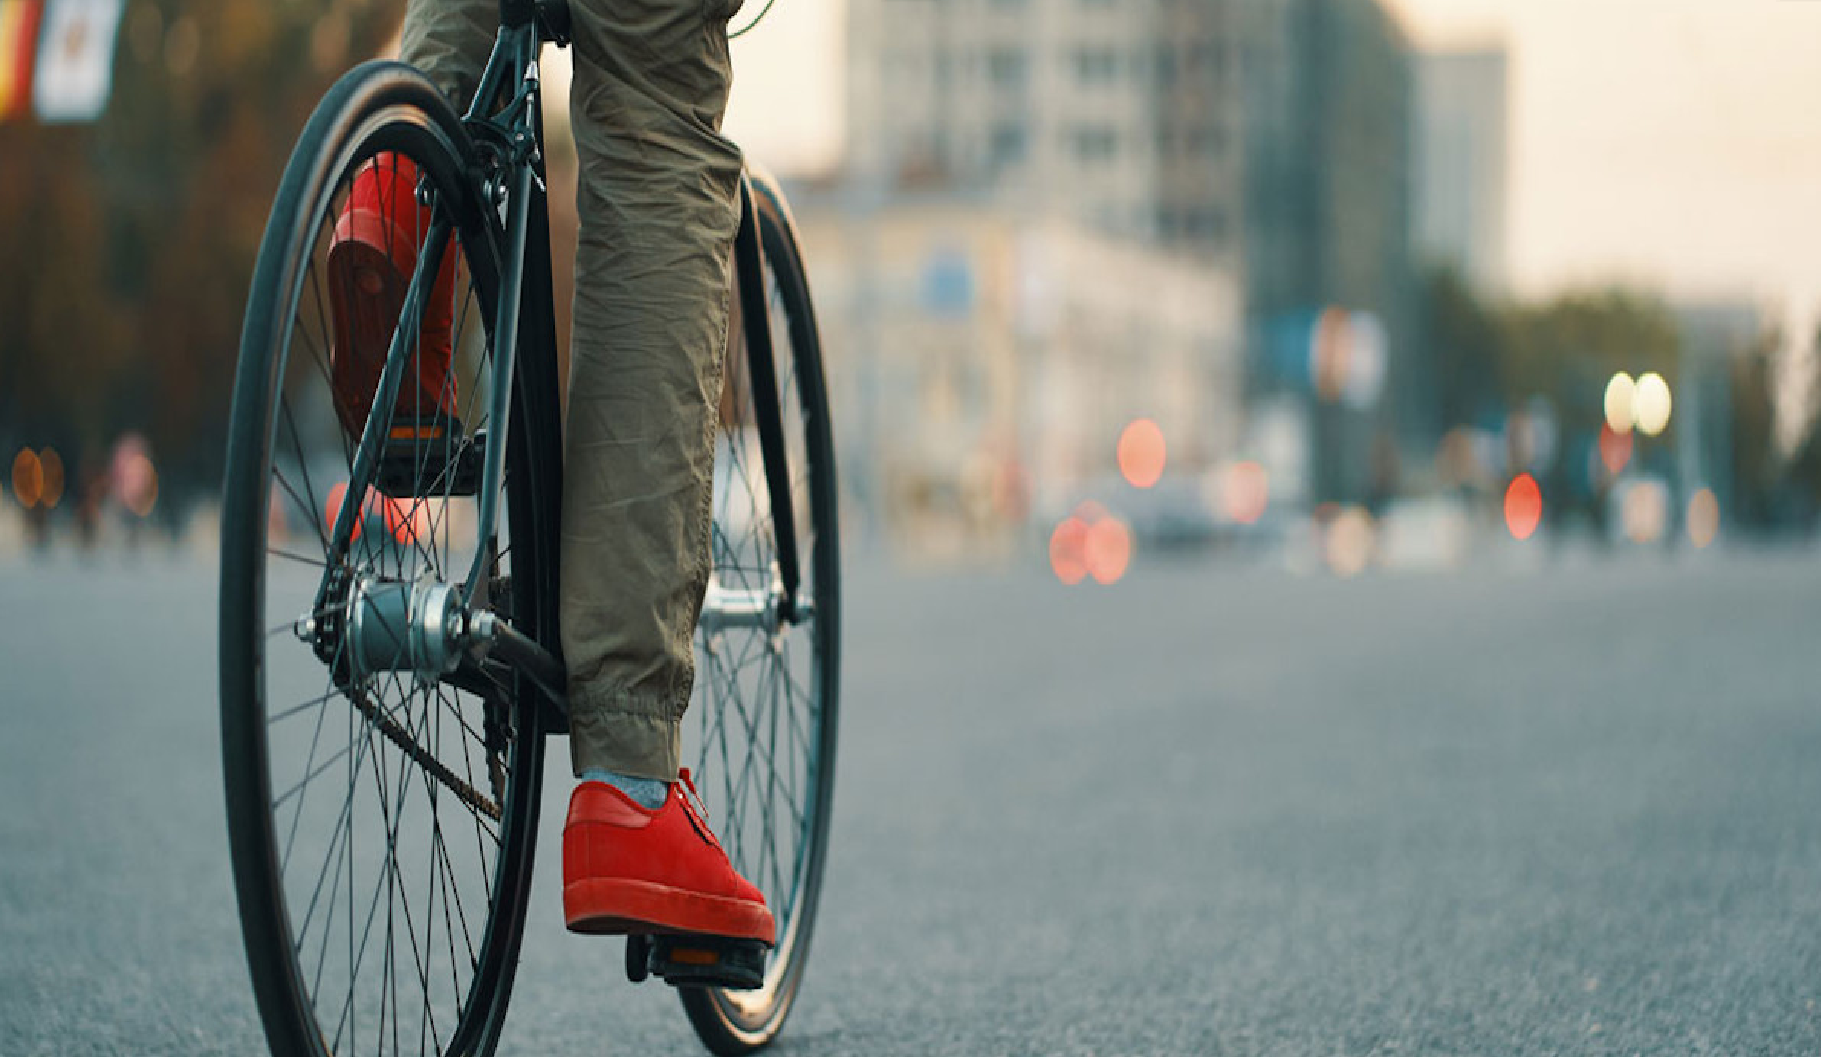
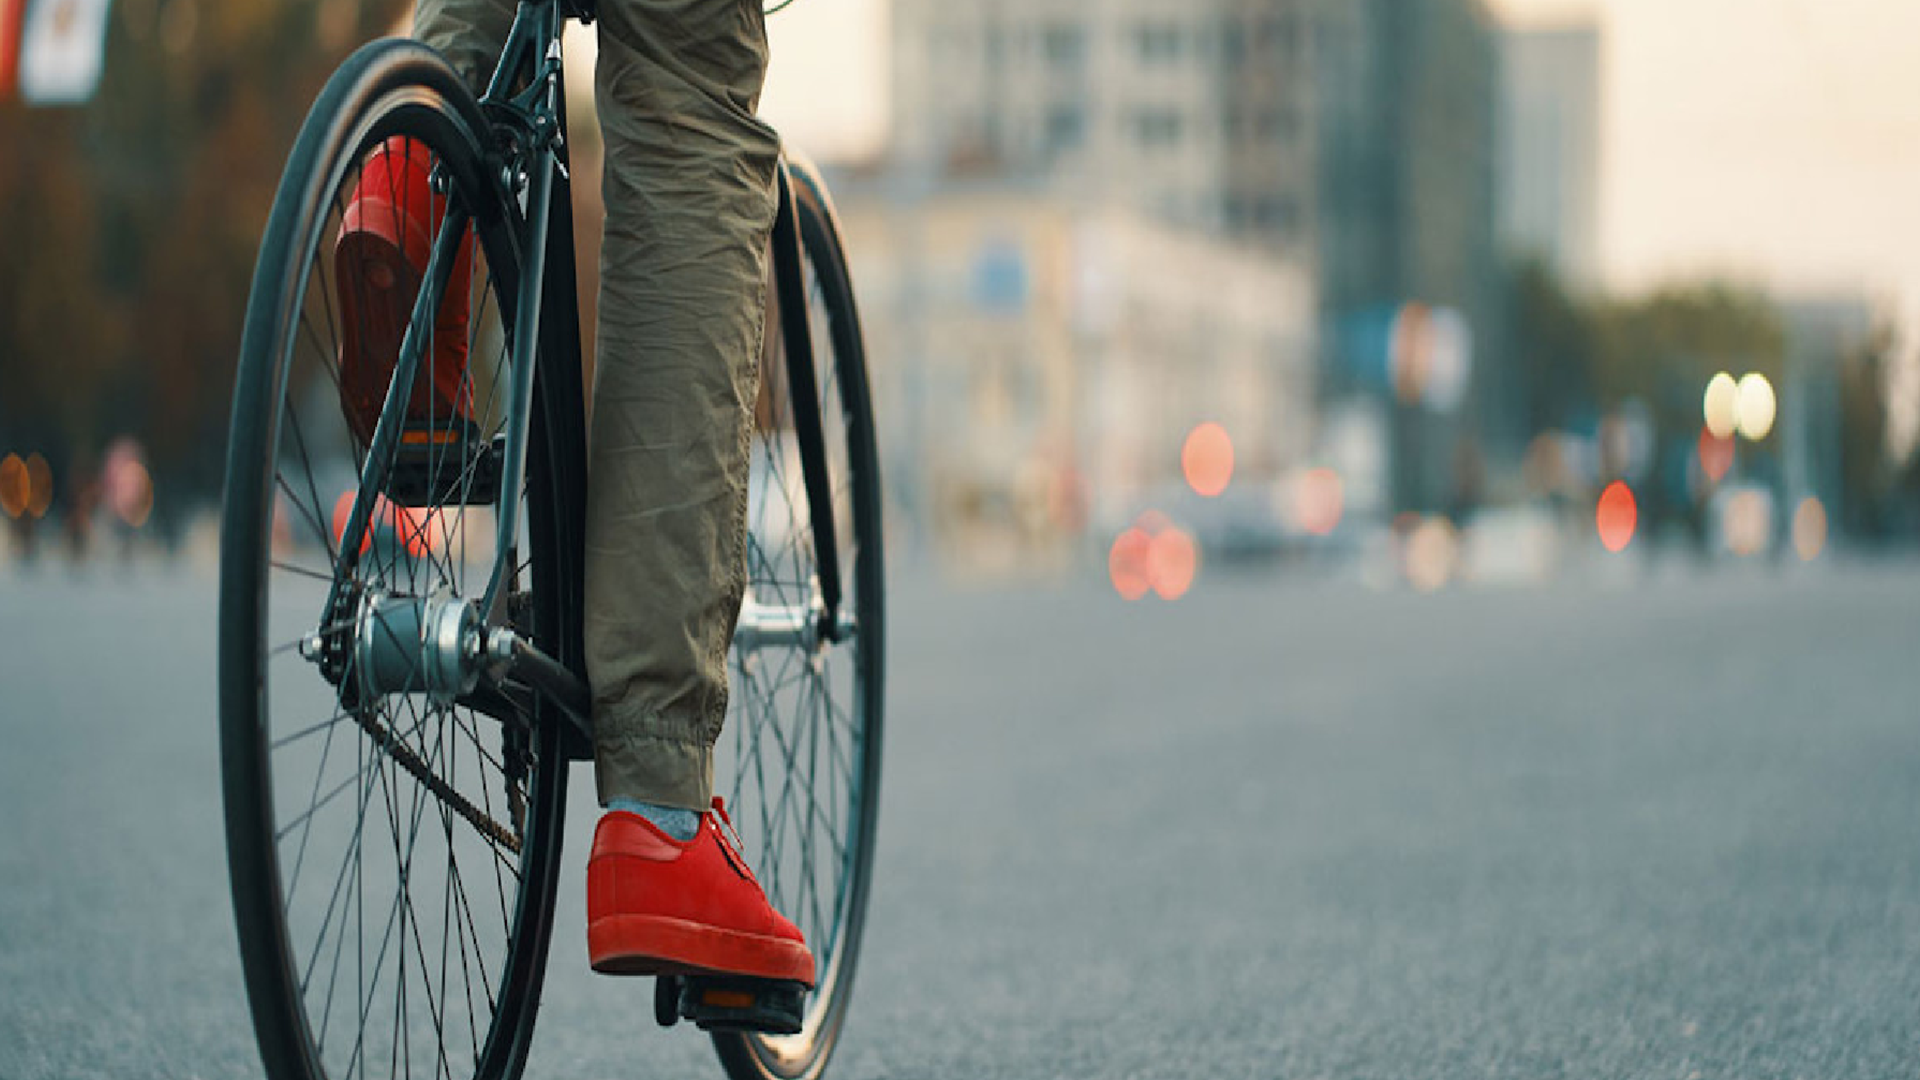
mejoradas las fotos y los p de los seguros

diff --git a/src/components/Home.vue b/src/components/Home.vue
@@ -57,91 +57,91 @@ export default {
 					description:
 						"Cobertura integral para flotas de vehículos comerciales, adaptada a cada empresa.",
 					link: "/flotas",
-					image: "Flotas.PNG",
+					image: "Flota.png",
 				},
 				{
 					title: "A.R.T.",
 					description:
 						"Cobertura para empleadores y trabajadores, incluye accidentes y enfermedades profesionales.",
 					link: "/art",
-					image: "Art.jpg",
+					image: "Art.png",
 				},
 				{
 					title: "Accidentes Personales",
 					description:
 						"Cobertura para lesiones, invalidez o fallecimiento causados por accidentes.",
 					link: "/accidentes-personales",
-					image: "AP.jpg",
+					image: "Ap.png",
 				},
 				{
 					title: "Integral de Comercio",
 					description:
 						"Protección para la estructura física del comercio, inventario y responsabilidad civil.",
 					link: "/comercio",
-					image: "comercio.jpg",
+					image: "Comercio.png",
 				},
 				{
 					title: "Integral de Consorcio",
 					description:
 						"Protección para edificios / propiedad horizontal, incluyendo áreas comunes y responsabilidad civil.",
 					link: "/consorcio",
-					image: "edificio.jpg",
+					image: "Consorcio.png",
 				},
 				{
 					title: "Todo Riesgo Operativo",
 					description:
 						"Cobertura integral para empresas, protegiendo contra daños materiales y pérdidas económicas.",
 					link: "/todo-riesgo-operativo",
-					image: "TRO.PNG",
+					image: "TRO.png",
 				},
 				{
 					title: "Transporte de Mercancías",
 					description:
 						"Cobertura para la carga durante el transporte terrestre, marítimo o aéreo. Incluye robo, daños y mas.",
 					link: "/transport",
-					image: "TrnspMerc.PNG",
+					image: "TranspMerc.png",
 				},
 				{
 					title: "Caución",
 					description:
 						"Garantías para el cumplimiento de obligaciones contractuales y demandas judiciales.",
 					link: "/caucion",
-					image: "Caucion.jpeg",
+					image: "Caucion.png",
 				},
 				{
 					title: "Mala Praxis",
 					description:
 						"Cobertura para profesionales que enfrentan demandas por errores ejerciendo su labor.",
 					link: "/mala-praxis",
-					image: "MalaPraxis.jpeg",
+					image: "MalaPraxis.png",
 				},
 				{
 					title: "Combinado Familiar",
 					description:
 						"Protección para la vivienda y sus bienes frente a diversos riesgos como incendios y robos.",
 					link: "/combinado-familiar",
-					image: "familiar.PNG",
+					image: "Familia.png",
 				},
 				{
 					title: "Bicicletas",
 					description:
 						"Cobertura contra robo, daños accidentales, y responsabilidad civil para bicicletas.",
 					link: "/bicicletas",
-					image: "Bici.PNG",
+					image: "Bici.png",
 				},
 				{
 					title: "Notebooks",
 					description:
 						"Protección contra robo o daños accidentales para notebooks y computadoras portátiles.",
 					link: "/notebooks",
-					image: "Note.PNG",
+					image: "Note.png",
 				},
 				{
 					title: "Celulares",
 					description:
 						"Cobertura contra el robo, daños accidentales y fallas técnicas de dispositivos móviles.",
 					link: "/celulares",
-					image: "Celu.PNG",
+					image: "Celu.png",
 				},
 			],
 		};

diff --git a/src/views/Comercio.vue b/src/views/Comercio.vue
@@ -3,8 +3,8 @@
 		<!-- Encabezado con diseño dividido -->
 		<div class="header-container d-flex align-items-center flex-wrap">
 			<div class="header-text col-12 col-md-6 text-center text-md-start">
-				<h1>Protección Integral para tu Comercio</h1>
-				<p>
+				<h1>Integral de Comercio</h1>
+				<p class="subtitulo">
 					Protección para la estructura física del comercio, inventario y
 					responsabilidad civil.
 				</p>
@@ -13,7 +13,7 @@
 				</button>
 			</div>
 			<div class="header-image">
-				<img :src="getServiceImage('comercio.jpg')" alt="Comercio Image" />
+				<img :src="getServiceImage('Comercio.png')" alt="Comercio Image" />
 			</div>
 		</div>
 
@@ -230,6 +230,7 @@ export default {
 	font-size: 1.2rem;
 	color: #555;
 	margin-bottom: 20px;
+	margin-right: 30px;
 }
 
 .header-text .btn-custom {

diff --git a/src/views/Celulares.vue b/src/views/Celulares.vue
@@ -3,7 +3,7 @@
 		<!-- Encabezado con diseño dividido -->
 		<div class="header-container d-flex align-items-center">
 			<div class="header-text">
-				<h1>Seguro de Celulares</h1>
+				<h1>Celulares</h1>
 				<p>
 					Cobertura contra el robo, daños accidentales y fallas técnicas de
 					dispositivos móviles.
@@ -13,7 +13,7 @@
 				</button>
 			</div>
 			<div class="header-image">
-				<img :src="getServiceImage('Celu.PNG')" alt="Seguro de Celulares" />
+				<img :src="getServiceImage('Celu.png')" alt="Seguro de Celulares" />
 			</div>
 		</div>
 
@@ -269,6 +269,7 @@ export default {
 	font-size: 1.2rem;
 	color: #555;
 	margin-bottom: 20px;
+	margin-right: 30px;
 }
 
 .header-text .btn-custom {

diff --git a/src/views/Bicicletas.vue b/src/views/Bicicletas.vue
@@ -3,7 +3,7 @@
 		<!-- Encabezado con diseño dividido -->
 		<div class="header-container d-flex align-items-center">
 			<div class="header-text">
-				<h1>Seguro de Bicicletas</h1>
+				<h1>Bicicletas</h1>
 				<p>
 					Cobertura contra robo, daños accidentales, y responsabilidad civil
 					para bicicletas.
@@ -13,7 +13,7 @@
 				</button>
 			</div>
 			<div class="header-image">
-				<img :src="getServiceImage('Bici.PNG')" alt="Seguro de Bicicletas" />
+				<img :src="getServiceImage('Bici.png')" alt="Seguro de Bicicletas" />
 			</div>
 		</div>
 
@@ -257,6 +257,7 @@ export default {
 	font-size: 1.2rem;
 	color: #555;
 	margin-bottom: 20px;
+	margin-right: 30px;
 }
 
 .header-text .btn-custom {

diff --git a/src/views/Notebooks.vue b/src/views/Notebooks.vue
@@ -3,7 +3,7 @@
 		<!-- Encabezado con diseño dividido -->
 		<div class="header-container d-flex align-items-center">
 			<div class="header-text">
-				<h1>Seguro de Notebooks</h1>
+				<h1>Notebooks</h1>
 				<p>
 					Protección contra robo o daños accidentales para notebooks y
 					computadoras portátiles.
@@ -13,7 +13,7 @@
 				</button>
 			</div>
 			<div class="header-image">
-				<img :src="getServiceImage('Note.PNG')" alt="Seguro de Notebooks" />
+				<img :src="getServiceImage('Note.png')" alt="Seguro de Notebooks" />
 			</div>
 		</div>
 
@@ -265,6 +265,7 @@ export default {
 	font-size: 1.2rem;
 	color: #555;
 	margin-bottom: 20px;
+	margin-right: 30px;
 }
 
 .header-text .btn-custom {

diff --git a/src/views/Combinado-Familiar.vue b/src/views/Combinado-Familiar.vue
@@ -3,7 +3,7 @@
 		<!-- Encabezado con diseño dividido -->
 		<div class="header-container d-flex align-items-center">
 			<div class="header-text">
-				<h1>Seguro Combinado Familiar</h1>
+				<h1>Combinado Familiar</h1>
 				<p>
 					Protección para la vivienda y sus bienes frente a diversos riesgos
 					como incendios y robos.
@@ -14,7 +14,7 @@
 			</div>
 			<div class="header-image">
 				<img
-					:src="getServiceImage('familiar.PNG')"
+					:src="getServiceImage('Familia.png')"
 					alt="Seguro Combinado Familiar Image"
 				/>
 			</div>
@@ -228,6 +228,7 @@ export default {
 	font-size: 1.2rem;
 	color: #555;
 	margin-bottom: 20px;
+	margin-right: 30px;
 }
 
 .header-text .btn-custom {

diff --git a/src/views/MalaPraxis.vue b/src/views/MalaPraxis.vue
@@ -3,7 +3,7 @@
 		<!-- Encabezado con diseño dividido -->
 		<div class="header-container d-flex align-items-center">
 			<div class="header-text">
-				<h1>Seguro de Mala Praxis</h1>
+				<h1>Mala Praxis</h1>
 				<p>
 					Cobertura para profesionales que enfrentan demandas por errores
 					ejerciendo su labor.
@@ -14,7 +14,7 @@
 			</div>
 			<div class="header-image">
 				<img
-					:src="getServiceImage('MalaPraxis.jpeg')"
+					:src="getServiceImage('MalaPraxis.png')"
 					alt="Seguro de Mala Praxis Image"
 				/>
 			</div>
@@ -237,6 +237,7 @@ export default {
 	font-size: 1.2rem;
 	color: #555;
 	margin-bottom: 20px;
+	margin-right: 30px;
 }
 
 .header-text .btn-custom {

diff --git a/src/views/Flotas.vue b/src/views/Flotas.vue
@@ -4,7 +4,7 @@
 		<div class="header-container d-flex align-items-center flex-wrap">
 			<div class="header-text col-12 col-md-6 text-center text-md-start">
 				<h1>Flotas de Autos</h1>
-				<p>
+				<p class="subtitulo">
 					Cobertura integral para flotas de vehículos comerciales, adaptada a
 					cada empresa.
 				</p>
@@ -13,7 +13,7 @@
 				</button>
 			</div>
 			<div class="header-image col-12 col-md-6 text-center">
-				<img :src="getServiceImage('Flotas.PNG')" alt="Flotas Image" />
+				<img :src="getServiceImage('Flota.png')" alt="Flotas Image" />
 			</div>
 		</div>
 

diff --git a/src/views/Caucion.vue b/src/views/Caucion.vue
@@ -3,7 +3,7 @@
 		<!-- Encabezado con diseño dividido -->
 		<div class="header-container d-flex align-items-center flex-wrap">
 			<div class="header-text col-12 col-md-6 text-center text-md-start">
-				<h1>Seguro de Caución</h1>
+				<h1>Caución</h1>
 				<p>
 					Garantías para el cumplimiento de obligaciones tanto contractuales
 					como demandas judiciales.
@@ -14,7 +14,7 @@
 			</div>
 			<div class="header-image">
 				<img
-					:src="getServiceImage('Caucion.jpeg')"
+					:src="getServiceImage('Caucion.png')"
 					alt="Seguro de Caución Image"
 				/>
 			</div>

diff --git a/src/views/Consorcio.vue b/src/views/Consorcio.vue
@@ -13,7 +13,7 @@
 				</button>
 			</div>
 			<div class="header-image">
-				<img :src="getServiceImage('edificio.jpg')" alt="Consorcio Image" />
+				<img :src="getServiceImage('Consorcio.png')" alt="Consorcio Image" />
 			</div>
 		</div>
 
@@ -217,6 +217,7 @@ export default {
 	font-size: 1.2rem;
 	color: #555;
 	margin-bottom: 20px;
+	margin-right: 30px;
 }
 
 .header-text .btn-custom {

diff --git a/src/views/TodoRiesgoOperativo.vue b/src/views/TodoRiesgoOperativo.vue
@@ -14,7 +14,7 @@
 			</div>
 			<div class="header-image">
 				<img
-					:src="getServiceImage('TRO.PNG')"
+					:src="getServiceImage('TRO.png')"
 					alt="Todo Riesgo Operativo Image"
 				/>
 			</div>
@@ -218,6 +218,7 @@ export default {
 	font-size: 1.2rem;
 	color: #555;
 	margin-bottom: 20px;
+	margin-right: 30px;
 }
 
 .header-text .btn-custom {

diff --git a/src/views/AccidentesPersonales.vue b/src/views/AccidentesPersonales.vue
@@ -14,7 +14,7 @@
 			</div>
 			<div class="header-image col-12 col-md-6 text-center">
 				<img
-					:src="getServiceImage('AP.jpg')"
+					:src="getServiceImage('Ap.png')"
 					alt="Accidentes Personales Image"
 				/>
 			</div>
